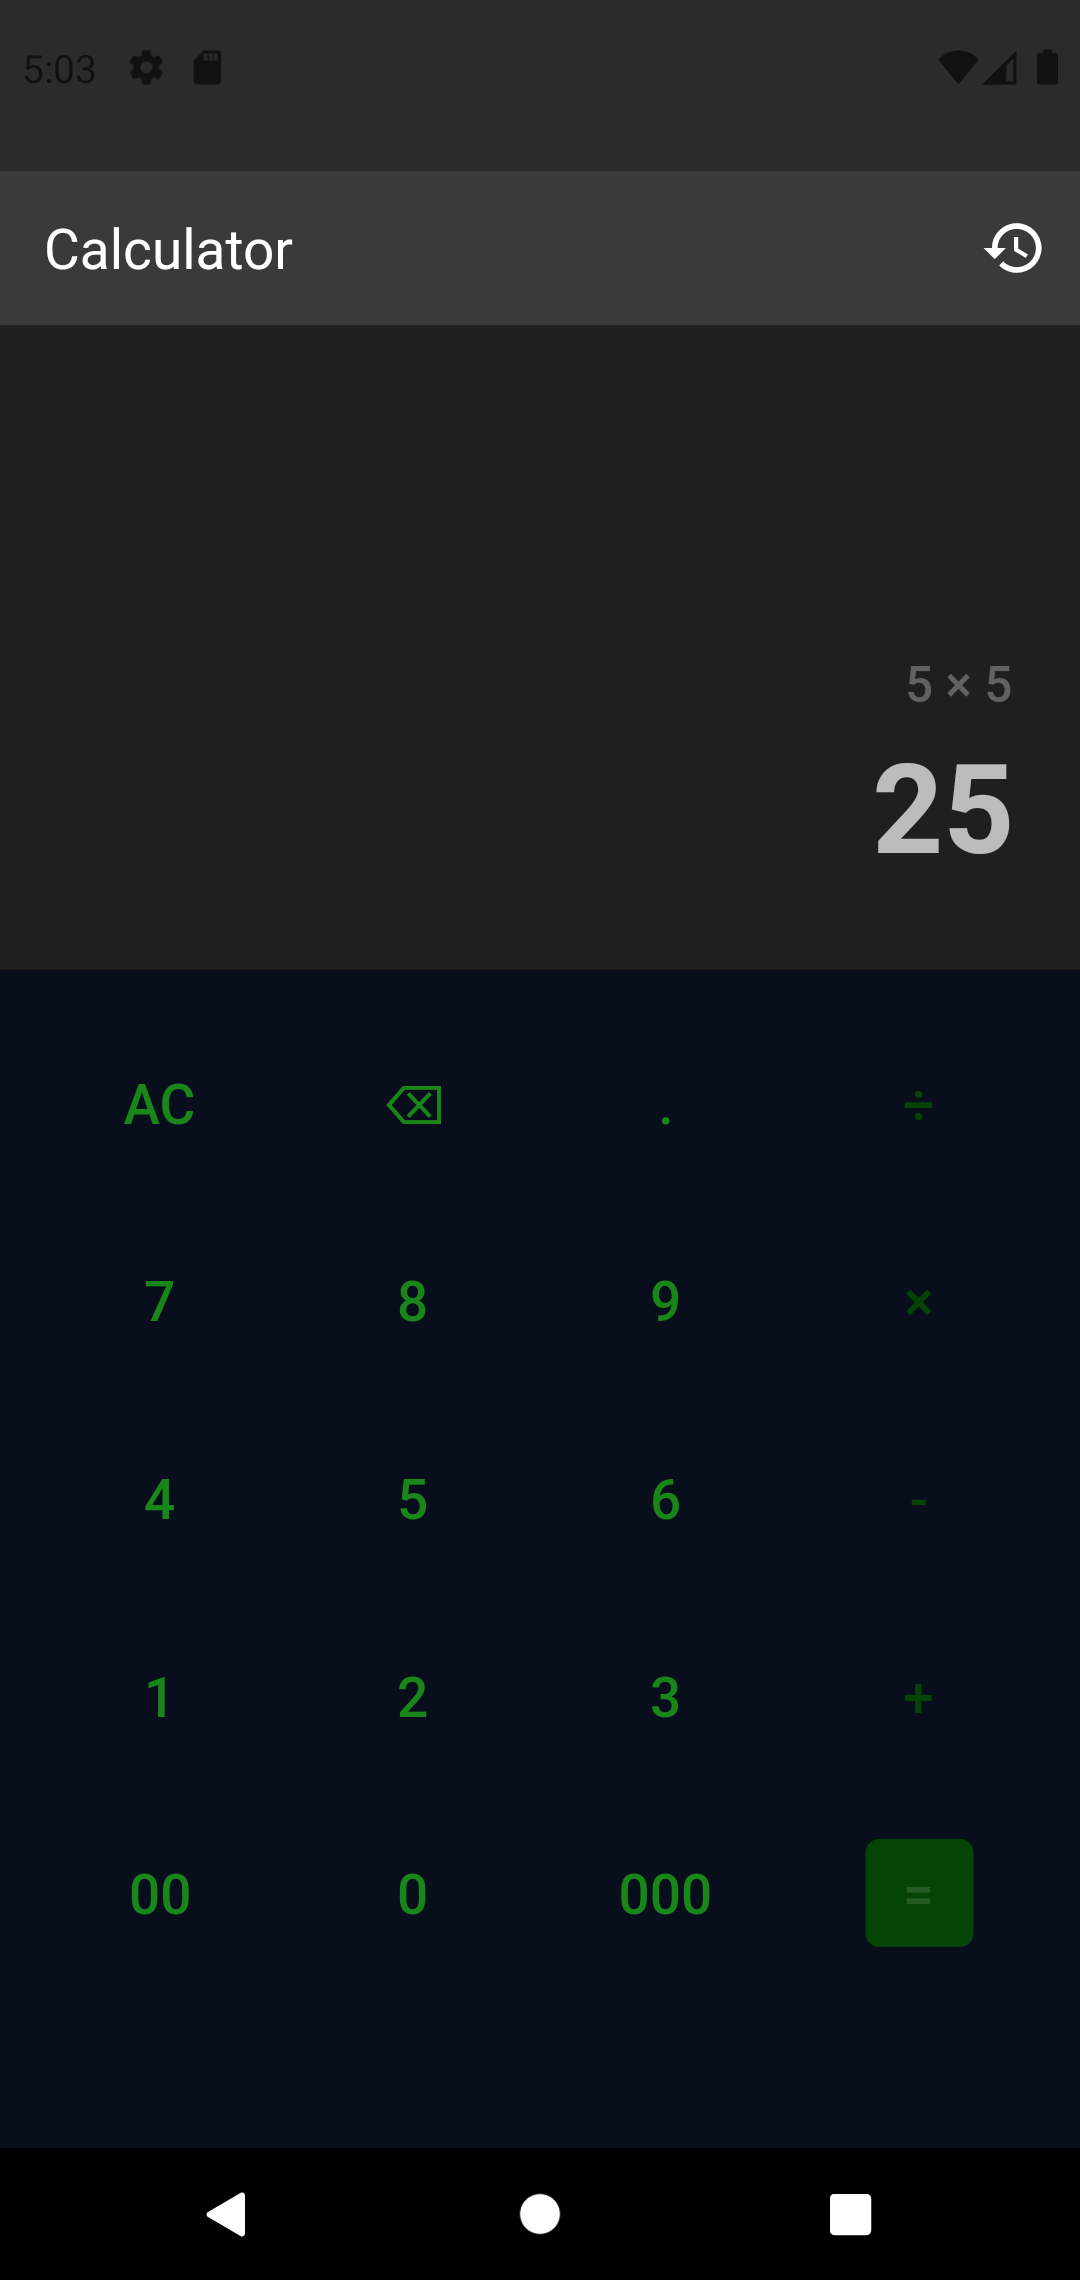
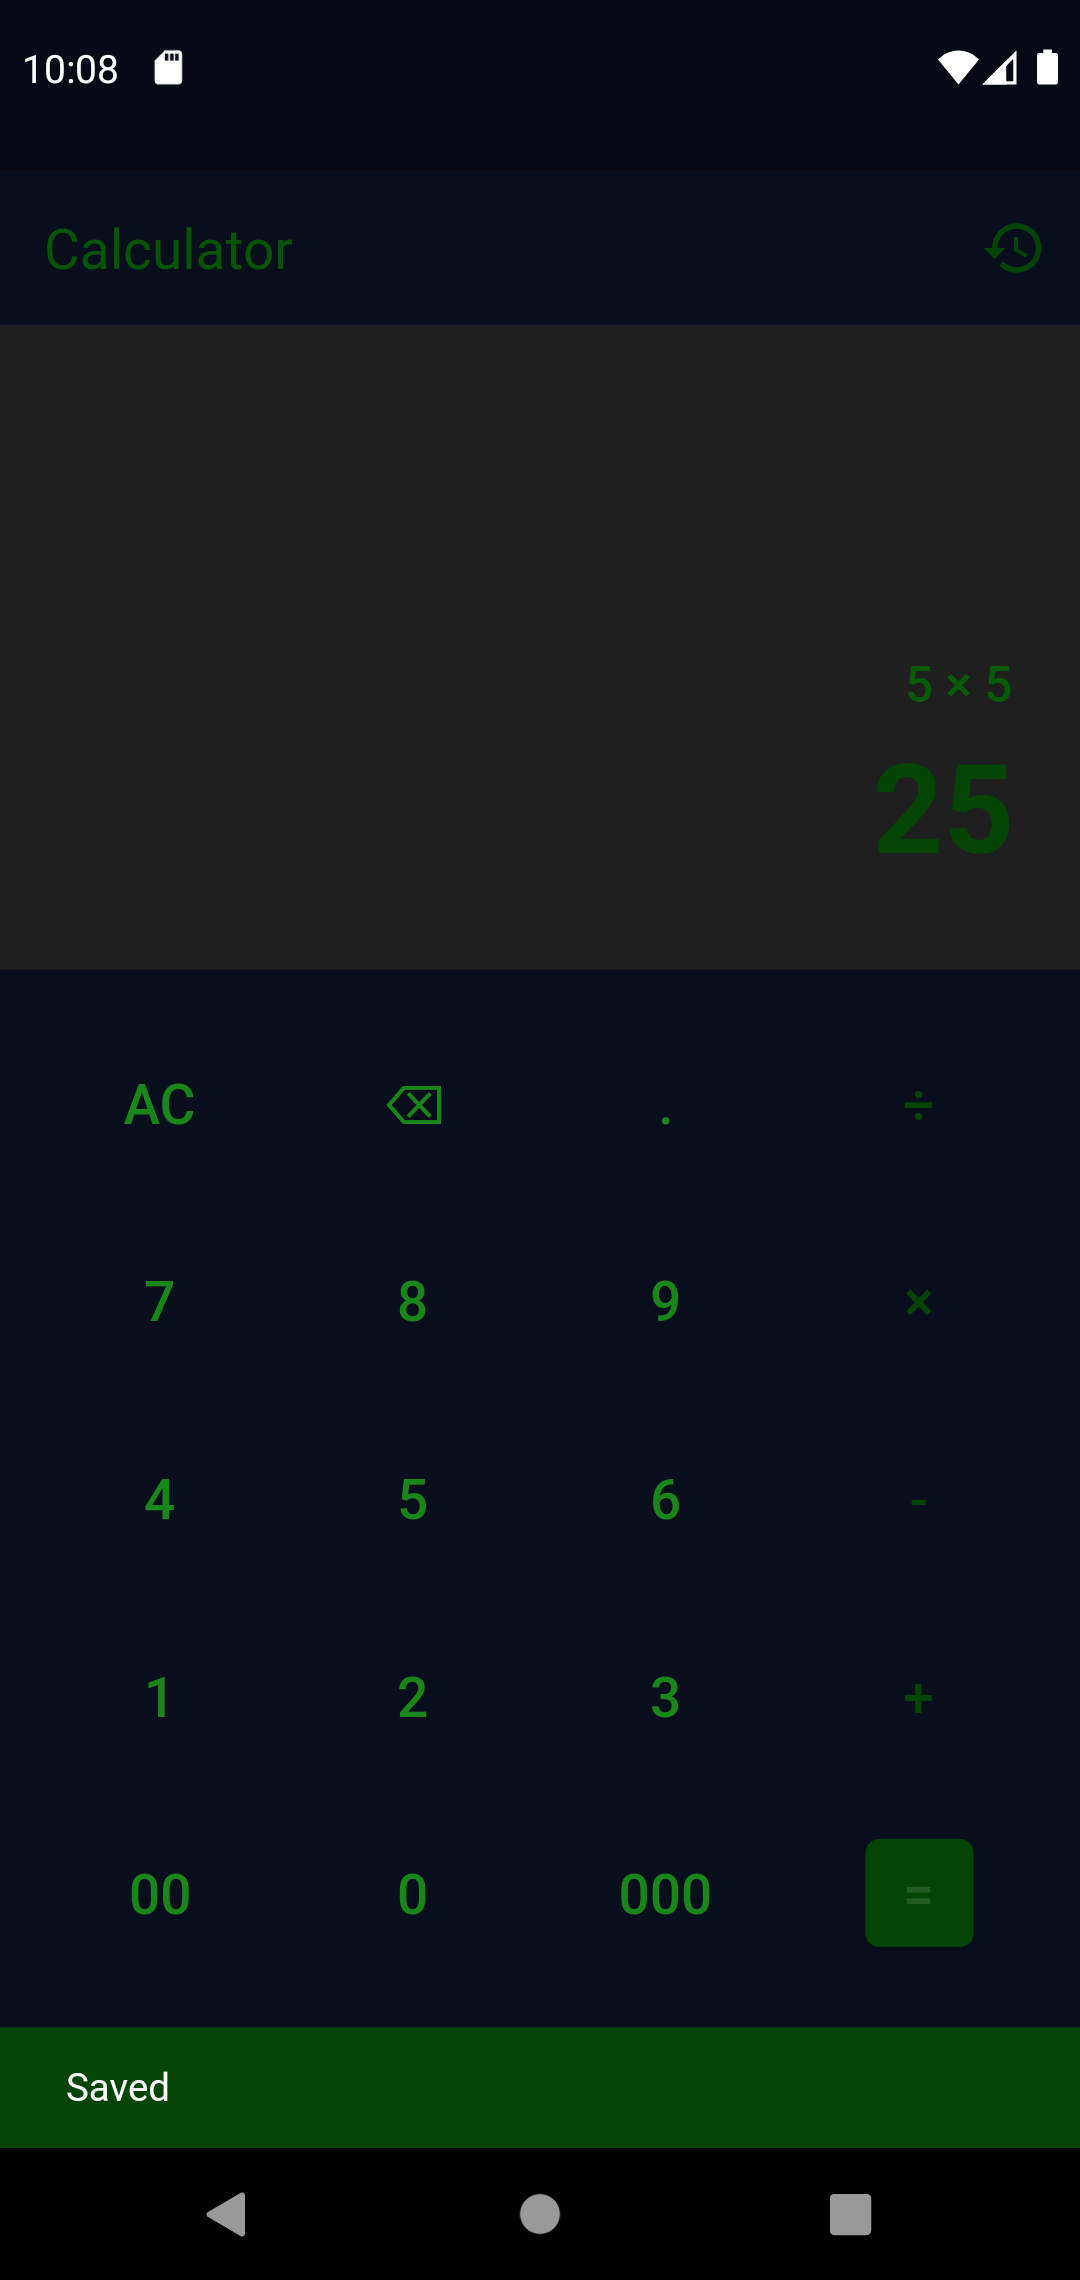
Updating The layout

Changed region(s): [[0.0, 0.0, 1.0, 0.1557], [0.0, 0.8719, 1.0, 0.9965], [0.7944, 0.2803, 0.9472, 0.3737]]

diff --git a/lib/screens/calculator.dart b/lib/screens/calculator.dart
@@ -40,7 +40,10 @@ class Calculator extends StatelessWidget {
                       Consumer<CalculatorProvider>(
                         builder: (context, equation, child) => Text(
                           equation.equation,
-                          style: Theme.of(context).textTheme.caption,
+                          style: Theme.of(context)
+                              .textTheme
+                              .caption!
+                              .copyWith(color: Color.fromARGB(255, 6, 92, 6)),
                         ),
                       ),
                     ],
@@ -48,10 +51,11 @@ class Calculator extends StatelessWidget {
                 ),
                 SizedBox(height: 10.0),
                 Consumer<CalculatorProvider>(
-                  builder: (context, equation, child) => Text(
-                    equation.result,
-                    style: Theme.of(context).textTheme.headline3,
-                  ),
+                  builder: (context, equation, child) => Text(equation.result,
+                      style: Theme.of(context)
+                          .textTheme
+                          .headline3!
+                          .copyWith(color: Color(0xff044404))),
                 ),
               ],
             ),

diff --git a/lib/imports.dart b/lib/imports.dart
@@ -14,14 +14,22 @@ AppBar appbar(
   Function() tap,
 ) {
   return AppBar(
+    iconTheme: IconThemeData(color: Color(0xff044404)),
+    backgroundColor: Color(0xFF090E1C),
     title: Text(
       title,
-      style: TextStyle(fontWeight: FontWeight.w400),
+      style: TextStyle(
+          fontSize: 20,
+          color: Color.fromARGB(255, 5, 85, 5),
+          fontWeight: FontWeight.w400),
     ),
     actions: [
       IconButton(
         onPressed: tap,
-        icon: Icon(icon),
+        icon: Icon(
+          icon,
+          color: Color(0xff044404),
+        ),
       ),
     ],
   );
@@ -86,8 +94,12 @@ void showToast(BuildContext context, String message) {
   final scaffold = ScaffoldMessenger.of(context);
   scaffold.showSnackBar(
     SnackBar(
-      content: Text(message),
+      content: Text(
+        message,
+        style: TextStyle(color: Colors.white),
+      ),
       duration: Duration(milliseconds: 400),
+      backgroundColor: Color(0xff044404),
     ),
   );
 }

diff --git a/lib/screens/history.dart b/lib/screens/history.dart
@@ -32,7 +32,7 @@ class History extends StatelessWidget {
                 style: Theme.of(context)
                     .textTheme
                     .caption
-                    ?.copyWith(fontSize: 12.0),
+                    ?.copyWith(fontSize: 12.0, color: Color(0xff044404)),
               ),
             )
           : ListView.separated(
@@ -46,8 +46,12 @@ class History extends StatelessWidget {
                     borderRadius: BorderRadius.circular(10.0),
                   ),
                   tileColor: buttonsBackgroundColor,
-                  title: Text(result[i].title),
-                  subtitle: Text(result[i].subtitle),
+                  title: Text(
+                    result[i].title,
+                    style: TextStyle(color: Color.fromARGB(255, 9, 119, 9)),
+                  ),
+                  subtitle: Text(result[i].subtitle,
+                      style: TextStyle(color: Color(0xff044404))),
                 );
               },
             ),

diff --git a/lib/provider/calculator_provider.dart b/lib/provider/calculator_provider.dart
@@ -37,7 +37,7 @@ class CalculatorProvider with ChangeNotifier {
           ..title = result
           ..subtitle = equation;
         Hive.box<HistoryItem>('history').add(historyItem);
-        showToast(context, 'Saved');
+        showToast(context, 'Saved',);
       } else {
         equation = equation + sign;
       }
